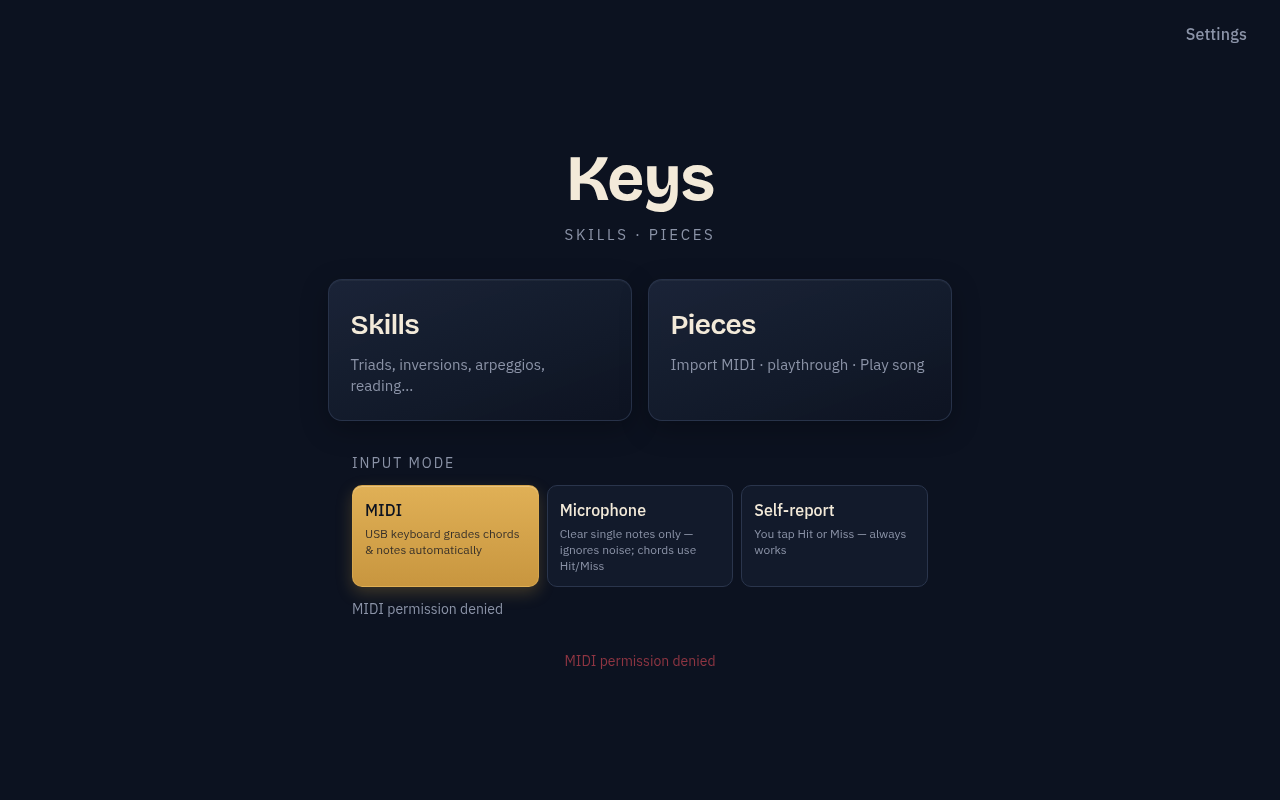
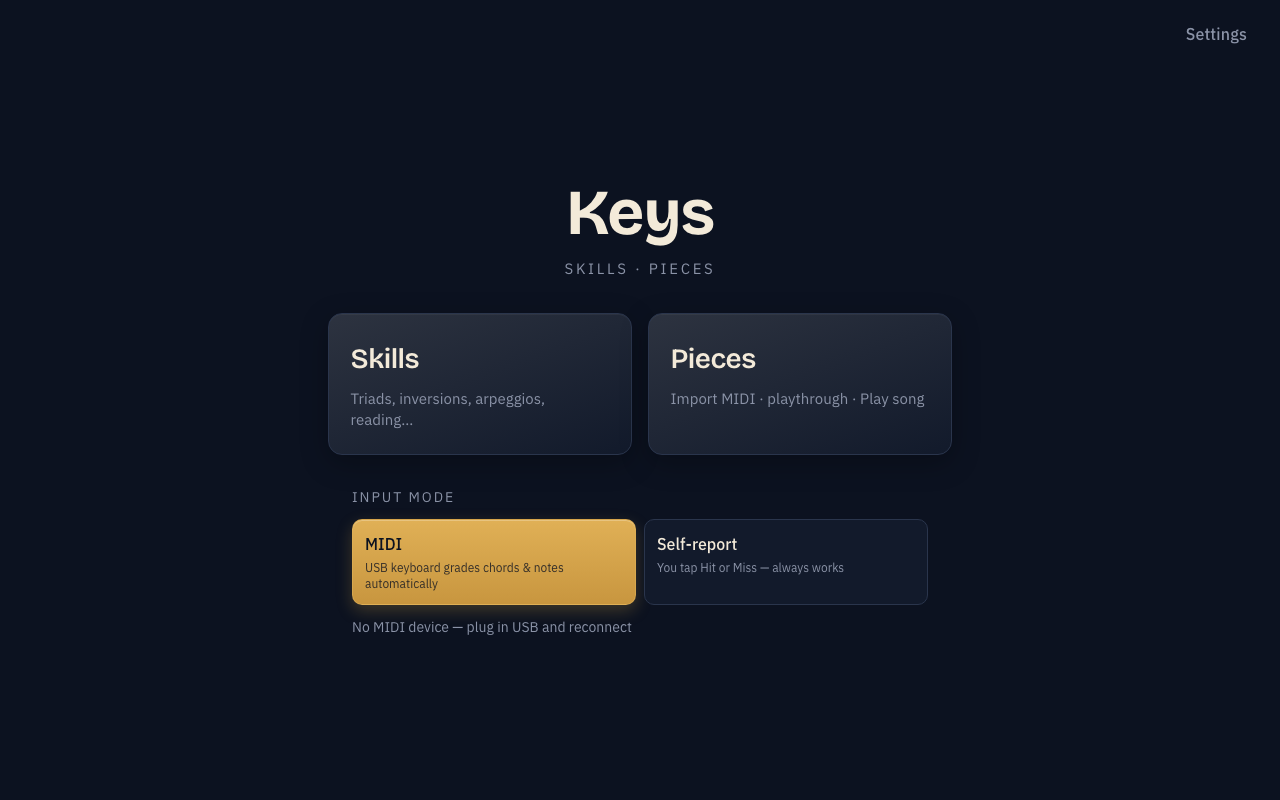
docs: refresh README for MIDI playthrough and current screenshots
Replace outdated mic-era images, lead with USB-MIDI playthrough usage,
and document sheet invert plus import/practice flow.

diff --git a/README.md b/README.md
@@ -1,84 +1,73 @@
 # Keys
 
-Offline piano practice app for a music stand: **Skills** drills and **Pieces** playthrough with real sheet music. Built for a Kawai (or any USB-MIDI keyboard) in Chrome.
+A music-stand piano practice app focused on **MIDI playthrough**: import a piece, read real sheet music, and play along on a USB keyboard with live grading and demo playback.
 
-![Home](docs/screenshots/01-home.png)
+![Playthrough](docs/screenshots/04-playthrough.png)
 
-## Features
+## Highly recommended: USB-MIDI piano
 
-- **Skills** — triad recall, inversions, scales/arpeggios, slash chords, sight-reading, rhythm, and more
-- **Pieces** — import MIDI, walk through with VexFlow sheet + on-screen 88-key piano
-- **Playthrough** — Play song / line / bar, pause & resume, measure navigation, sheet invert (light-on-dark ↔ dark-on-light)
-- **Input** — USB-MIDI auto-grade, or self-report Hit/Miss
+Keys is built around a **real piano / digital keyboard over USB-MIDI** (for example a Kawai with USB-B). That is the intended way to use playthrough and Skills drills.
+
+1. Connect the keyboard to your computer with a USB cable.
+2. Open Keys in **Chrome** (Web MIDI).
+3. On Home, choose **MIDI**.
+4. Play — held notes are graded automatically.
+
+Self-report (Hit / Miss) exists as a fallback when no keyboard is available, but playthrough and practice feel much better with MIDI connected.
+
+## Playthrough
+
+1. Open **Pieces** → **Import MIDI** (`.mid` / `.midi`).
+2. The piece opens in walk-through / playthrough with:
+   - VexFlow **sheet music** (and optional piano roll)
+   - Full on-screen **88-key** piano with RH / LH colors
+   - **Play song / Play line / Play bar**, plus Pause / Resume / Stop
+   - Measure navigation (buttons, arrows, scroll)
+   - **Light on dark ↔ Dark on light** sheet invert
+3. Play the current step on your MIDI keyboard (or listen with Play song).
+
+Imported pieces stay in this browser’s IndexedDB on your machine — they are not uploaded anywhere.
+
+| Sheet (light on dark) | Sheet (dark on light) |
+| --- | --- |
+| ![Playthrough](docs/screenshots/04-playthrough.png) | ![Paper](docs/screenshots/05-playthrough-paper.png) |
+
+## Also included
+
+- **Skills** — triad recall, inversions, scales/arpeggios, reading drills, and more  
 - **Color profiles** — Night, Parchment, High contrast, Forest (Settings)
 
-## Screenshots
-
-| Home | Skills |
+| Home | Settings |
 | --- | --- |
-| ![Home](docs/screenshots/01-home.png) | ![Skills](docs/screenshots/02-skills.png) |
+| ![Home](docs/screenshots/01-home.png) | ![Settings](docs/screenshots/02-settings.png) |
 
-| Pieces library | Settings |
-| --- | --- |
-| ![Pieces](docs/screenshots/03-pieces.png) | ![Settings](docs/screenshots/04-settings.png) |
-
-| Drill | Home (narrow) |
-| --- | --- |
-| ![Drill](docs/screenshots/05-drill.png) | ![Mobile](docs/screenshots/06-home-mobile.png) |
+![Skills](docs/screenshots/03-skills.png)
 
 ## Requirements
 
-- **Node.js** 20+ (or current LTS)
-- **Chrome** (Web MIDI). Safari is not supported for MIDI.
-- Optional: USB-MIDI keyboard (e.g. Kawai KDP110 via USB-B)
+- Node.js 20+ (or current LTS)
+- **Google Chrome** (Web MIDI)
+- USB-MIDI keyboard strongly recommended
 
-## Install
+## Install & run
 
 ```bash
 git clone https://github.com/Jak-Kolb/piano_trainer.git
 cd piano_trainer
 npm install
-```
-
-## Run
-
-Production-style local preview (recommended):
-
-```bash
 npm start
 ```
 
-Opens **http://127.0.0.1:5173/** in Chrome.
-
-Dev server with hot reload:
+Opens **http://127.0.0.1:5173/** — use Chrome.
 
 ```bash
-npm run dev
+npm run dev    # hot reload
+npm test       # unit tests
+npm run build  # production build
 ```
 
-**macOS one-click:** after `npm install`, double-click `scripts/Keys.command` (or copy it to your Desktop).
-
-## Using the app
-
-1. On Home, pick **MIDI** (plug in the keyboard first) or **Self-report**.
-2. **Skills** — choose a drill and play (or tap Hit/Miss).
-3. **Pieces** — Import MIDI → open a piece → playthrough sheet.
-4. Toolbar: **Sheet / Roll / Both**, **Light on dark ↔ Dark on light**, Play song / line / bar, Pause / Resume / Stop.
-5. **Settings** — switch color profile (applies live).
-
-Imported pieces are stored in the browser (IndexedDB) on this machine.
-
-## Test & build
-
-```bash
-npm test
-npm run build
-```
+macOS: after `npm install`, you can double-click `scripts/Keys.command`.
 
 ## Stack
 
-Vite · React · TypeScript · Tailwind v4 · VexFlow · Tone.js · `@tonejs/midi`
-
-## License
-
-Private / personal project unless otherwise noted.
+Vite · React · TypeScript · Tailwind · VexFlow · Tone.js · `@tonejs/midi`
